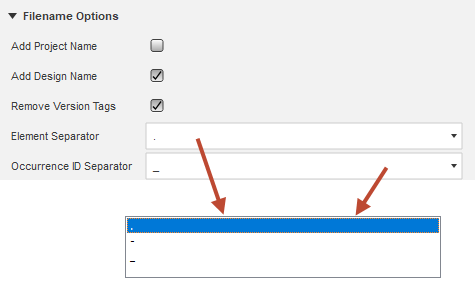
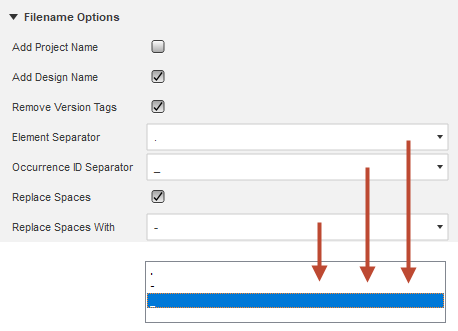
Replace spaces filter added

diff --git a/commands/ExportItExportDesignCommand.py b/commands/ExportItExportDesignCommand.py
@@ -50,6 +50,8 @@ def createDefaultConfiguration():
     defaultConfiguration[CONF_FILENAME_REMOVE_VERSION_TAGS_KEY] = CONF_FILENAME_REMOVE_VERSION_TAGS_DEFAULT
     defaultConfiguration[CONF_FILENAME_OCCURRENCE_ID_SEPERATOR_KEY] = CONF_FILENAME_OCCURRENCE_ID_SEPERATOR_DEFAULT
     defaultConfiguration[CONF_FILENAME_ELEMENT_SEPERATOR_KEY] = CONF_FILENAME_ELEMENT_SEPERATOR_DEFAULT
+    defaultConfiguration[CONF_FILENAME_REPLACE_SPACES_KEY] = CONF_FILENAME_REPLACE_SPACES_DEFAULT
+    defaultConfiguration[CONF_FILENAME_REPLACE_SPACES_WITH_KEY] = CONF_FILENAME_REPLACE_SPACES_WITH_DEFAULT
 
     # common
     defaultConfiguration[CONF_SHOW_SUMMARY_FOR_KEY] = CONF_SHOW_SUMMARY_FOR_DEFAULT
@@ -96,7 +98,6 @@ def initializeUi(inputs :adsk.core.CommandInputs, configurationOnly, checkForUpd
     addGroupToTab(UI_LOCATION_TAB_ID, UI_EXPORT_DIRECTORY_OPTIONS_GROUP_ID, UI_EXPORT_DIRECTORY_OPTIONS_GROUP_NAME, True)
 
     addStringInputToGroup(UI_EXPORT_DIRECTORY_OPTIONS_GROUP_ID, CONF_EXPORT_DIRECTORY_KEY, UI_EXPORT_DIRECTORY_NAME, getConfiguration(CONF_EXPORT_DIRECTORY_KEY))
-
     addBoolInputToGroup(UI_EXPORT_DIRECTORY_OPTIONS_GROUP_ID, CONF_EXPORT_DIRECTORY_ADD_PROJECT_NAME_KEY, UI_EXPORT_DIRECTORY_ADD_PROJECT_NAME_NAME, getConfiguration(CONF_EXPORT_DIRECTORY_ADD_PROJECT_NAME_KEY))
     addBoolInputToGroup(UI_EXPORT_DIRECTORY_OPTIONS_GROUP_ID, CONF_EXPORT_DIRECTORY_ADD_DESIGN_NAME_KEY, UI_EXPORT_DIRECTORY_ADD_DESIGN_NAME_NAME, getConfiguration(CONF_EXPORT_DIRECTORY_ADD_DESIGN_NAME_KEY))
     addBoolInputToGroup(UI_EXPORT_DIRECTORY_OPTIONS_GROUP_ID, CONF_EXPORT_DIRECTORY_ADD_EXPORT_TYPE_KEY, UI_EXPORT_DIRECTORY_EXPORT_TYPE_NAME, getConfiguration(CONF_EXPORT_DIRECTORY_ADD_EXPORT_TYPE_KEY))
@@ -106,11 +107,11 @@ def initializeUi(inputs :adsk.core.CommandInputs, configurationOnly, checkForUpd
 
     addBoolInputToGroup(UI_FILENAME_OPTIONS_GROUP_ID, CONF_FILENAME_ADD_PROJECT_NAME_KEY, UI_FILENAME_ADD_PROJECT_NAME_NAME, getConfiguration(CONF_FILENAME_ADD_PROJECT_NAME_KEY))
     addBoolInputToGroup(UI_FILENAME_OPTIONS_GROUP_ID, CONF_FILENAME_ADD_DESIGN_NAME_KEY, UI_FILENAME_ADD_DESIGN_NAME_NAME, getConfiguration(CONF_FILENAME_ADD_DESIGN_NAME_KEY))
-
     addBoolInputToGroup(UI_FILENAME_OPTIONS_GROUP_ID, CONF_FILENAME_REMOVE_VERSION_TAGS_KEY, UI_FILENAME_REMOVE_VERSION_TAGS_NAME, getConfiguration(CONF_FILENAME_REMOVE_VERSION_TAGS_KEY))
-
     addTextListDropDown(UI_FILENAME_OPTIONS_GROUP_ID, CONF_FILENAME_ELEMENT_SEPERATOR_KEY, UI_FILENAME_ELEMENT_SEPERATOR_NAME, UI_FILENAME_ELEMENT_SEPERATOR_VALUES, getConfiguration(CONF_FILENAME_ELEMENT_SEPERATOR_KEY))
     addTextListDropDown(UI_FILENAME_OPTIONS_GROUP_ID, CONF_FILENAME_OCCURRENCE_ID_SEPERATOR_KEY, UI_FILENAME_OCCURRENCE_ID_SEPERATOR_NAME, UI_FILENAME_OCCURRENCE_ID_SEPERATOR_VALUES, getConfiguration(CONF_FILENAME_OCCURRENCE_ID_SEPERATOR_KEY))
+    addBoolInputToGroup(UI_FILENAME_OPTIONS_GROUP_ID, CONF_FILENAME_REPLACE_SPACES_KEY, UI_FILENAME_REPLACE_SPACES_NAME, getConfiguration(CONF_FILENAME_REPLACE_SPACES_KEY))
+    addTextListDropDown(UI_FILENAME_OPTIONS_GROUP_ID, CONF_FILENAME_REPLACE_SPACES_WITH_KEY, UI_FILENAME_REPLACE_SPACES_WITH_NAME, UI_FILENAME_REPLACE_SPACES_WITH_VALUES, getConfiguration(CONF_FILENAME_REPLACE_SPACES_WITH_KEY))
 
     # location
     if configurationOnly or checkForUpdates:
@@ -403,8 +404,15 @@ def getExportName(projectName, designName, occurrenceFullPathName, bodyName, for
     # assemble suffix name
     nameElements.append(suffix.lower())
 
+    # assemble filename
+    fileName = elementSeparator.join(nameElements)
+
+    # remove spaces from filename
+    if getConfiguration(CONF_FILENAME_REPLACE_SPACES_KEY):
+        fileName = fileName.replace(" ", getConfiguration(CONF_FILENAME_REPLACE_SPACES_WITH_KEY))
+
     # assemble full path name
-    fullFileName = exportDirectory + elementSeparator.join(nameElements)
+    fullFileName = exportDirectory + fileName
 
     logger.debug("fullPathName: %s", fullFileName)
 

diff --git a/commands/Statics.py b/commands/Statics.py
@@ -91,6 +91,9 @@ UI_FILENAME_ELEMENT_SEPERATOR_NAME = 'Element Separator'                        
 UI_FILENAME_ELEMENT_SEPERATOR_VALUES = ['.', '-', '_']                                      # list of valid characters
 UI_FILENAME_OCCURRENCE_ID_SEPERATOR_NAME = 'Occurrence ID Separator'                        # character that separates the occurrence name and the instance id
 UI_FILENAME_OCCURRENCE_ID_SEPERATOR_VALUES = ['.', '-', '_']                                # list of valid characters
+UI_FILENAME_REPLACE_SPACES_NAME = 'Replace Spaces'                                          # True if spaces should be replaced, otherwise False
+UI_FILENAME_REPLACE_SPACES_WITH_NAME = 'Replace Spaces With'                                # character that replaces spaces in the filename
+UI_FILENAME_REPLACE_SPACES_WITH_VALUES = ['.', '-', '_']                                    # list of valid characters
 
 # user interface - misc
 UI_MISC_TAB_ID = 'Misc'
@@ -161,6 +164,10 @@ CONF_FILENAME_ELEMENT_SEPERATOR_KEY = 'elementSeparator'                        
 CONF_FILENAME_ELEMENT_SEPERATOR_DEFAULT = '.'                                               # valid values for the default: '.', '-', '_'
 CONF_FILENAME_OCCURRENCE_ID_SEPERATOR_KEY = 'occurrenceIdSeparator'                         # character that separates the occurrence name and the instance id
 CONF_FILENAME_OCCURRENCE_ID_SEPERATOR_DEFAULT = '_'                                         # valid values for the default: '.', '-', '_'
+CONF_FILENAME_REPLACE_SPACES_KEY = 'replaceSpaces'                                          # True if spaces should be replaced, otherwise False
+CONF_FILENAME_REPLACE_SPACES_DEFAULT = False                                                # valid values are True or False
+CONF_FILENAME_REPLACE_SPACES_WITH_KEY = 'replaceSpacesWith'                                 # character that replaces spaces in the filename
+CONF_FILENAME_REPLACE_SPACES_WITH_DEFAULT = '-'                                             # valid values for the default: '.', '-', '_'
 
 # configuration - common
 CONF_SHOW_SUMMARY_FOR_KEY = 'showSummaryFor'                                                # Show export summary for infos, warnings or errors

diff --git a/README.md b/README.md
@@ -157,7 +157,7 @@ Following options are used for better grouping of exports.
 Label | Options | Description
 ---------|----------|---------
 Add Project Name |  | Adds the project name as a prefix to the filename.
-Add Design Name |  | Adds the design name as a prefix to the filename. This is useful if a project contains several designs and the design name is not part of the export directory (more [here](Export-Directory))
+Add Design Name |  | Adds the design name as a prefix to the filename. This is useful if a project contains several designs and the design name is not part of the export directory (more [here](#export-directory-options))
 
 Filters are used to make filenames more (stable e.g. for external versioning), more readable or to remove characters that are not supported by the filesystem.
 
@@ -170,12 +170,12 @@ Element Separator Tags | \_ | This options uses a "_" (underscore) as the separa
 Occurrence ID Separator | . | This options uses a "." (dot) as the separator. | 01-Default.Component.1.Component.2.BodyName
 Occurrence ID Separator | - | This options uses a "-" (dash) as the separator. | 01-Default-Component-1.Component-2.BodyName
 Occurrence ID Separator | \_ | This options uses a "_" (underscore) as the separator. | 01-Default\_Component\_1.Component\_2.BodyName
+Replace Spaces | True / False | This option enables the replacement of spaces in the filename. | 08-ReplaceSpaces.just-a-block_1.Body1.low.stl
+Replace Spaces With | . | This options uses a "." (dot) as a replacement. | 08-ReplaceSpaces.just.a.block_1.Body1.low.stl
+Replace Spaces With | - | This options uses a "-" (dash) as a replacement. |  08-ReplaceSpaces.just-a-block_1.Body1.low.stl
+Replace Spaces With | \_ | This options uses a "_" (underscore) as a replacement. |  08-ReplaceSpaces.just\_a\_block_1.Body1.low.stl
 
-The default setting uses the dot for the element separator and the underscore for the occurrence ID separator and the resulting filenames will look like this:
-
->01-Default.blocks_1.deep_1.deeper_1.deepest_1.block_5.Body1.stl
-
-More details about the components of the export name can be found [here](Elements-Of-The-Export-Name).
+More details about the components of the export name can be found [here](#elements-of-the-export-name).
 
 ### Misc
 
@@ -287,7 +287,6 @@ TODO 0.4.0 | XX.XX.2020 | XXXX
 - [ ] Export of projects.
 - [ ] Selection of stl format (text / binary).
 - [ ] Custom stl refinement.
-- [ ] Filename filter to replace spaces with configurable character.
 - [ ] Export filter that excludes linked components.
 - [x] Defaults editor.
 - [x] Export of selected bodies.
@@ -298,3 +297,4 @@ TODO 0.4.0 | XX.XX.2020 | XXXX
 - [x] Show progress dialog
 - [X] Cleaner user interface
 - [x] Add auto save option for changed configuration
+- [x] Filename filter to replace spaces with configurable character.
